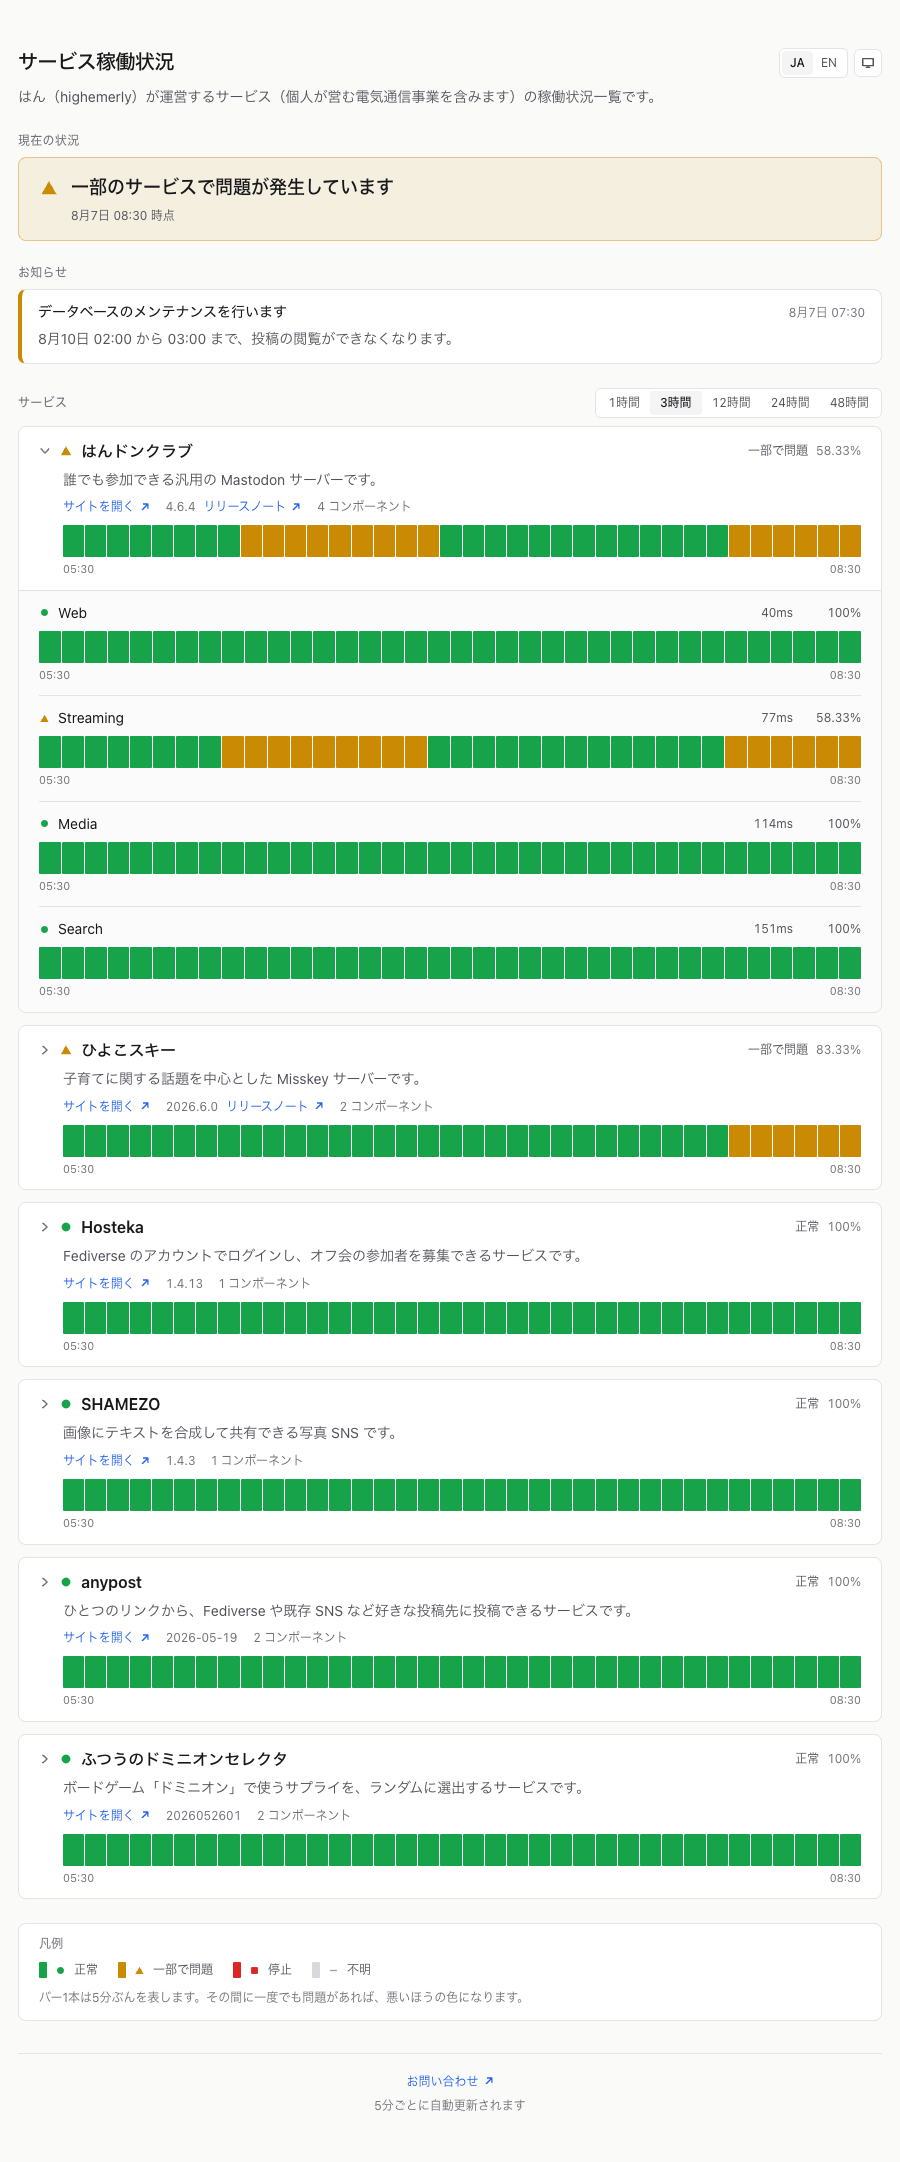
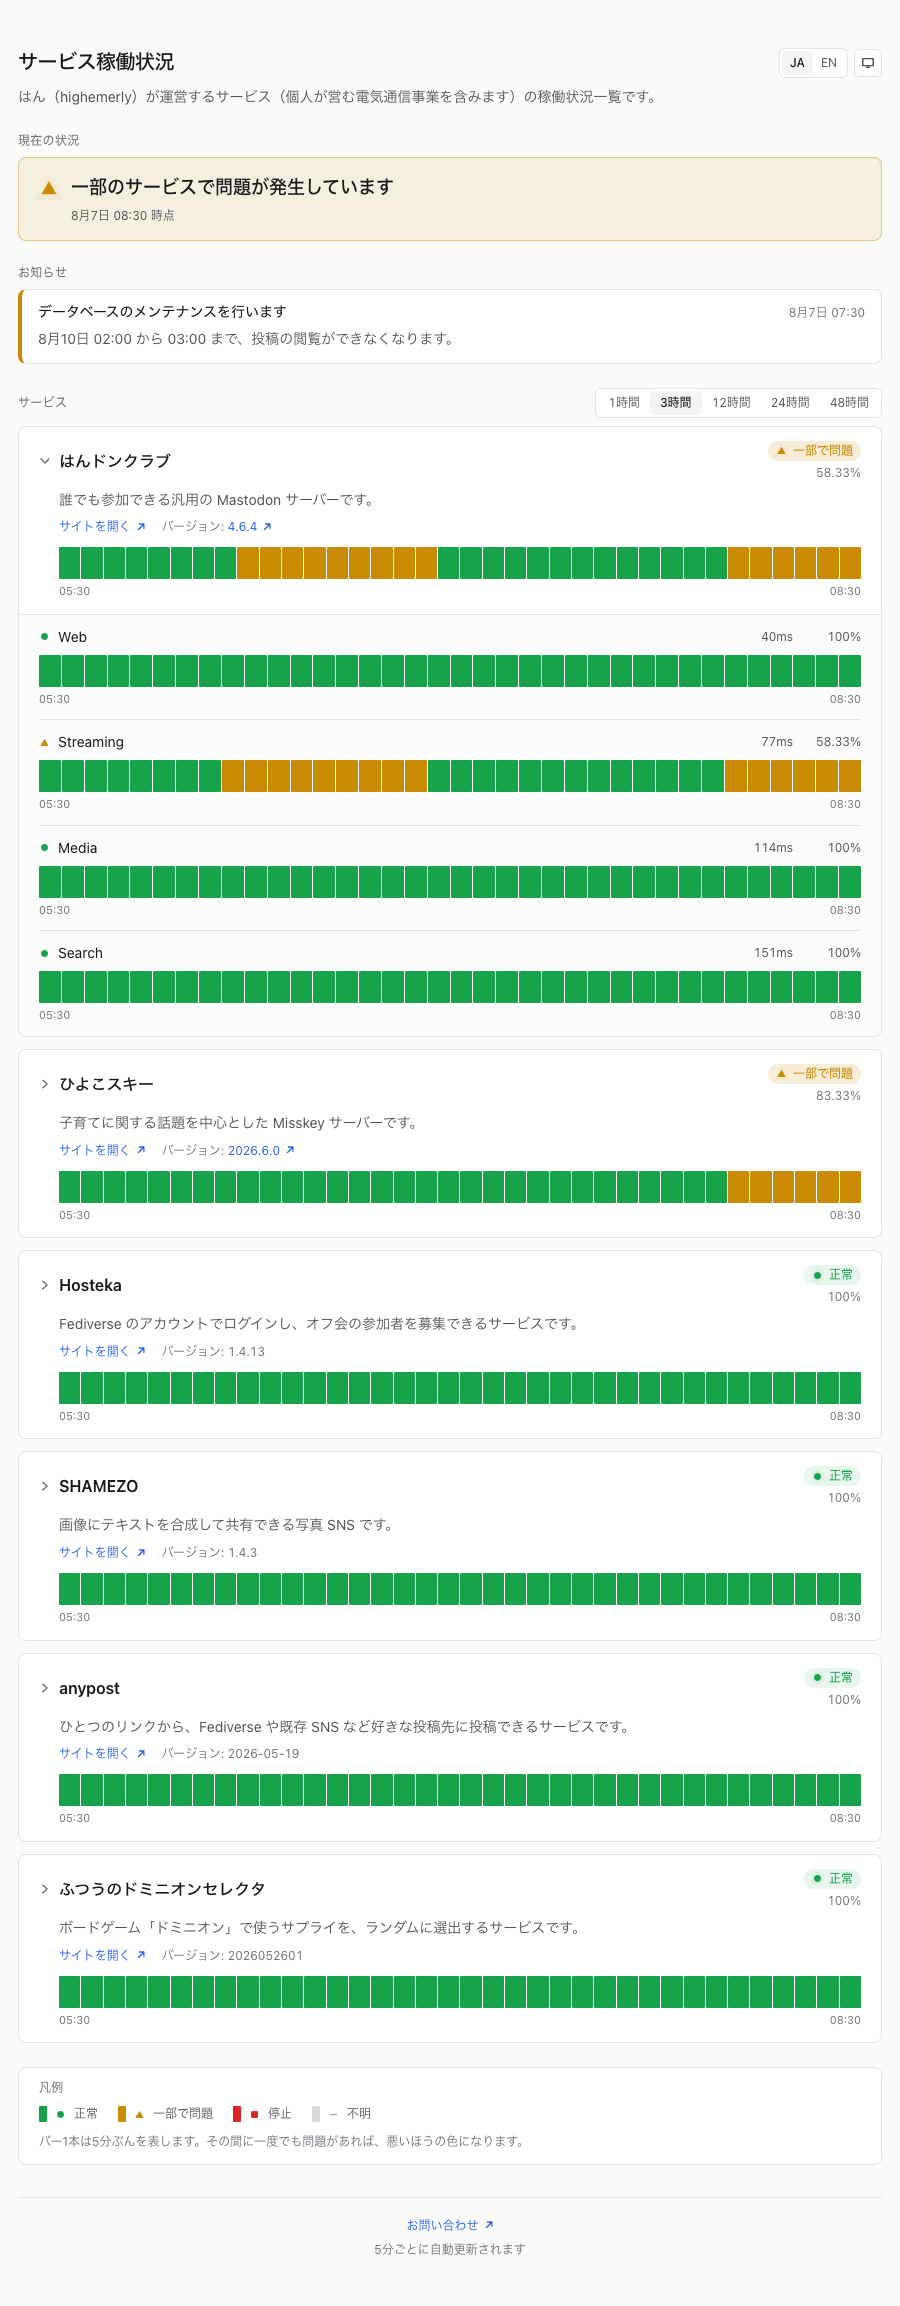
feat: ステータス表示を見やすくし、脈動アニメーションを追加
- 状態と稼働率を別の行に。並んでいるとどちらの値か読み取りにくかった
- 印（●▲■）をサービス名の前から状態表示の前へ移動
- 状態を淡い着色のピル型バッジにして視認性を上げる
- 印に脈動アニメーションを追加し、値が今の状態であることを示す
  同じ形をもう一枚重ねて広げながら消す方式。2.5秒周期・不透明度 0.45 から
  開始と控えめにして、常時動いても目障りにならないようにした
  prefers-reduced-motion: reduce では停止することを確認済み
- バージョンに「バージョン:」のラベルを付け、番号自体をリリースノートへの
  リンクにした。数字だけだと何の値か分からなかった
- コンポーネント数の表示を削除

ライト/ダーク両方で描画を確認。

diff --git a/components/CategoryCard.tsx b/components/CategoryCard.tsx
@@ -2,7 +2,7 @@
 
 import { useMemo, useState } from 'react';
 import { ServiceRow } from './ServiceRow';
-import { StatusIcon } from './StatusIcon';
+import { StatusBadge } from './StatusBadge';
 import { Timeline } from './Timeline';
 import {
   localized,
@@ -11,7 +11,7 @@ import {
   uptime,
   type RangeHours,
 } from '@/lib/status';
-import { fill, type Dict } from '@/lib/i18n';
+import type { Dict } from '@/lib/i18n';
 import type {
   Category,
   Lang,
@@ -64,7 +64,7 @@ export function CategoryCard({
 
   return (
     <section className="overflow-hidden rounded-lg border border-line bg-surface">
-      <div className="px-4 py-3 sm:px-5">
+      <div className="px-4 py-3.5 sm:px-5">
         <button
           type="button"
           onClick={() => setExpanded((open) => !open)}
@@ -88,27 +88,28 @@ export function CategoryCard({
             <path d="m5 3 6 5-6 5" />
           </svg>
 
-          <StatusIcon status={status} size={14} />
-
           <h3 className="min-w-0 flex-1 truncate text-base font-semibold">
             {localized(category.name, lang)}
           </h3>
 
-          <span className="shrink-0 text-xs text-fg-muted">{dict.status[status]}</span>
-          {rate !== null && (
-            <span className="shrink-0 text-xs tabular-nums text-fg-subtle">
-              {rate.toFixed(rate === 100 ? 0 : 2)}%
-            </span>
-          )}
+          {/* 状態と稼働率は行を分ける。並べると数字がどちらの値か読み取りにくい */}
+          <span className="flex shrink-0 flex-col items-end gap-1">
+            <StatusBadge status={status} dict={dict} />
+            {rate !== null && (
+              <span className="text-xs tabular-nums text-fg-subtle">
+                {rate.toFixed(rate === 100 ? 0 : 2)}%
+              </span>
+            )}
+          </span>
         </button>
 
         {description && (
-          <p className="mt-1.5 pl-6 text-sm leading-relaxed text-fg-muted">
+          <p className="mt-2 pl-5 text-sm leading-relaxed text-fg-muted">
             {description}
           </p>
         )}
 
-        <div className="mt-2 pl-6 flex flex-wrap items-center gap-x-4 gap-y-1.5">
+        <div className="mt-2 flex flex-wrap items-center gap-x-4 gap-y-1.5 pl-5">
           {/*
             カード全体をリンクにしない。開閉はボタン、遷移はこのリンクだけ。
             稼働状況を見に来ただけの人が誤ってサービス本体に飛ぶのを防ぐ。
@@ -125,31 +126,31 @@ export function CategoryCard({
             </a>
           )}
 
+          {/* 数字だけ置くと何の値か分からないので、必ずラベルを付ける */}
           {version && (
-            <span className="inline-flex items-center gap-2 text-xs text-fg-subtle">
-              <span title={`${dict.version}: ${version.imageTag}`} className="tabular-nums">
-                {version.version}
-              </span>
-              {version.release && (
+            <span className="text-xs text-fg-subtle">
+              {dict.version}:{' '}
+              {version.release ? (
                 <a
                   href={version.release.url}
                   target="_blank"
                   rel="noopener noreferrer"
-                  className="inline-flex items-center gap-1 rounded text-accent hover:underline"
+                  title={`${dict.releaseNotes}（${version.imageTag}）`}
+                  className="inline-flex items-center gap-1 rounded tabular-nums text-accent hover:underline"
                 >
-                  {dict.releaseNotes}
+                  {version.version}
                   <ExternalIcon />
                 </a>
+              ) : (
+                <span className="tabular-nums" title={version.imageTag}>
+                  {version.version}
+                </span>
               )}
             </span>
           )}
-
-          <span className="text-xs text-fg-subtle">
-            {fill(dict.componentCount, { n: services.length })}
-          </span>
         </div>
 
-        <div className="mt-2.5 pl-6">
+        <div className="mt-3 pl-5">
           <Timeline
             history={merged}
             hours={hours}

diff --git a/components/StatusBadge.tsx b/components/StatusBadge.tsx
@@ -1,0 +1,55 @@
+import { StatusIcon } from './StatusIcon';
+import type { Dict } from '@/lib/i18n';
+import type { ServiceStatus } from '@/lib/types';
+
+const TONE: Record<ServiceStatus, string> = {
+  up: 'bg-status-up/10 text-status-up',
+  degraded: 'bg-status-degraded/15 text-status-degraded',
+  down: 'bg-status-down/15 text-status-down',
+  unknown: 'bg-surface-raised text-fg-muted',
+};
+
+/**
+ * ステータスの印。
+ *
+ * 同じ形をもう一枚重ねて広げながら消すことで、値が生きていることを示す。
+ * 動きを減らす設定のブラウザでは globals.css 側で止まる。
+ */
+export function LiveDot({ status, size = 11 }: { status: ServiceStatus; size?: number }) {
+  return (
+    <span
+      className="relative inline-flex shrink-0 items-center justify-center"
+      style={{ width: size, height: size }}
+    >
+      <StatusIcon
+        status={status}
+        size={size}
+        className="absolute inset-0 animate-status-ping"
+      />
+      <StatusIcon status={status} size={size} className="relative" />
+    </span>
+  );
+}
+
+export function StatusBadge({
+  status,
+  dict,
+  size = 'md',
+}: {
+  status: ServiceStatus;
+  dict: Dict;
+  size?: 'md' | 'lg';
+}) {
+  const large = size === 'lg';
+
+  return (
+    <span
+      className={`inline-flex items-center gap-1.5 rounded-full font-medium ${TONE[status]} ${
+        large ? 'px-3 py-1 text-sm' : 'px-2 py-0.5 text-xs'
+      }`}
+    >
+      <LiveDot status={status} size={large ? 14 : 11} />
+      {dict.status[status]}
+    </span>
+  );
+}

diff --git a/lib/i18n.ts b/lib/i18n.ts
@@ -47,7 +47,6 @@ const dict = {
     legend: '凡例',
     showDetails: '内訳を見る',
     hideDetails: '内訳を閉じる',
-    componentCount: '{n} コンポーネント',
     legendBar: 'バー1本は{minutes}分ぶんを表します。その間に一度でも問題があれば、悪いほうの色になります。',
   },
   en: {
@@ -92,7 +91,6 @@ const dict = {
     legend: 'Legend',
     showDetails: 'Show breakdown',
     hideDetails: 'Hide breakdown',
-    componentCount: '{n} components',
     legendBar: 'Each bar covers {minutes} minutes. If anything went wrong during that window, the bar shows the worse state.',
   },
 } as const;

diff --git a/components/OverallBanner.tsx b/components/OverallBanner.tsx
@@ -1,6 +1,6 @@
 'use client';
 
-import { StatusIcon } from './StatusIcon';
+import { LiveDot } from './StatusBadge';
 import { fill, formatTime, type Dict } from '@/lib/i18n';
 import type { Lang, ServiceStatus } from '@/lib/types';
 
@@ -32,7 +32,7 @@ export function OverallBanner({
   return (
     <div className={`rounded-lg border px-4 py-4 sm:px-5 ${TONE[status]}`}>
       <div className="flex items-center gap-3">
-        <StatusIcon status={status} size={20} />
+        <LiveDot status={status} size={20} />
         <p className="text-base font-semibold sm:text-lg">
           {dict[HEADLINE[status]] as string}
         </p>

diff --git a/tailwind.config.ts b/tailwind.config.ts
@@ -43,6 +43,17 @@ const config: Config = {
       maxWidth: {
         page: '56rem',
       },
+      // ステータス表示が「今この瞬間の値」であることを伝えるための脈動。
+      // 常時動くので、目障りにならないよう遅く・薄くしてある。
+      keyframes: {
+        'status-ping': {
+          '0%': { transform: 'scale(1)', opacity: '0.45' },
+          '70%, 100%': { transform: 'scale(2.1)', opacity: '0' },
+        },
+      },
+      animation: {
+        'status-ping': 'status-ping 2.5s cubic-bezier(0, 0, 0.2, 1) infinite',
+      },
     },
   },
   plugins: [],
